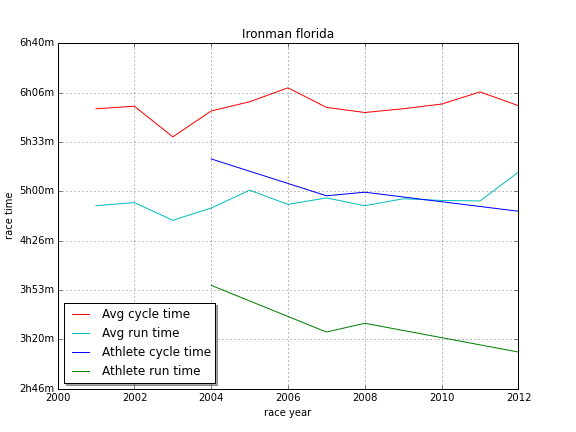
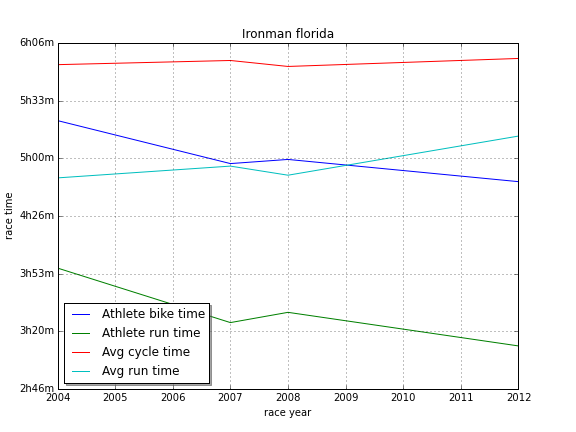
Tweak graphs

diff --git a/README.md b/README.md
@@ -1,4 +1,4 @@
 Datascience
 ===========
 
-IPython notebook setup doing data science.
+IPython notebook's for several data analysis techniques.
